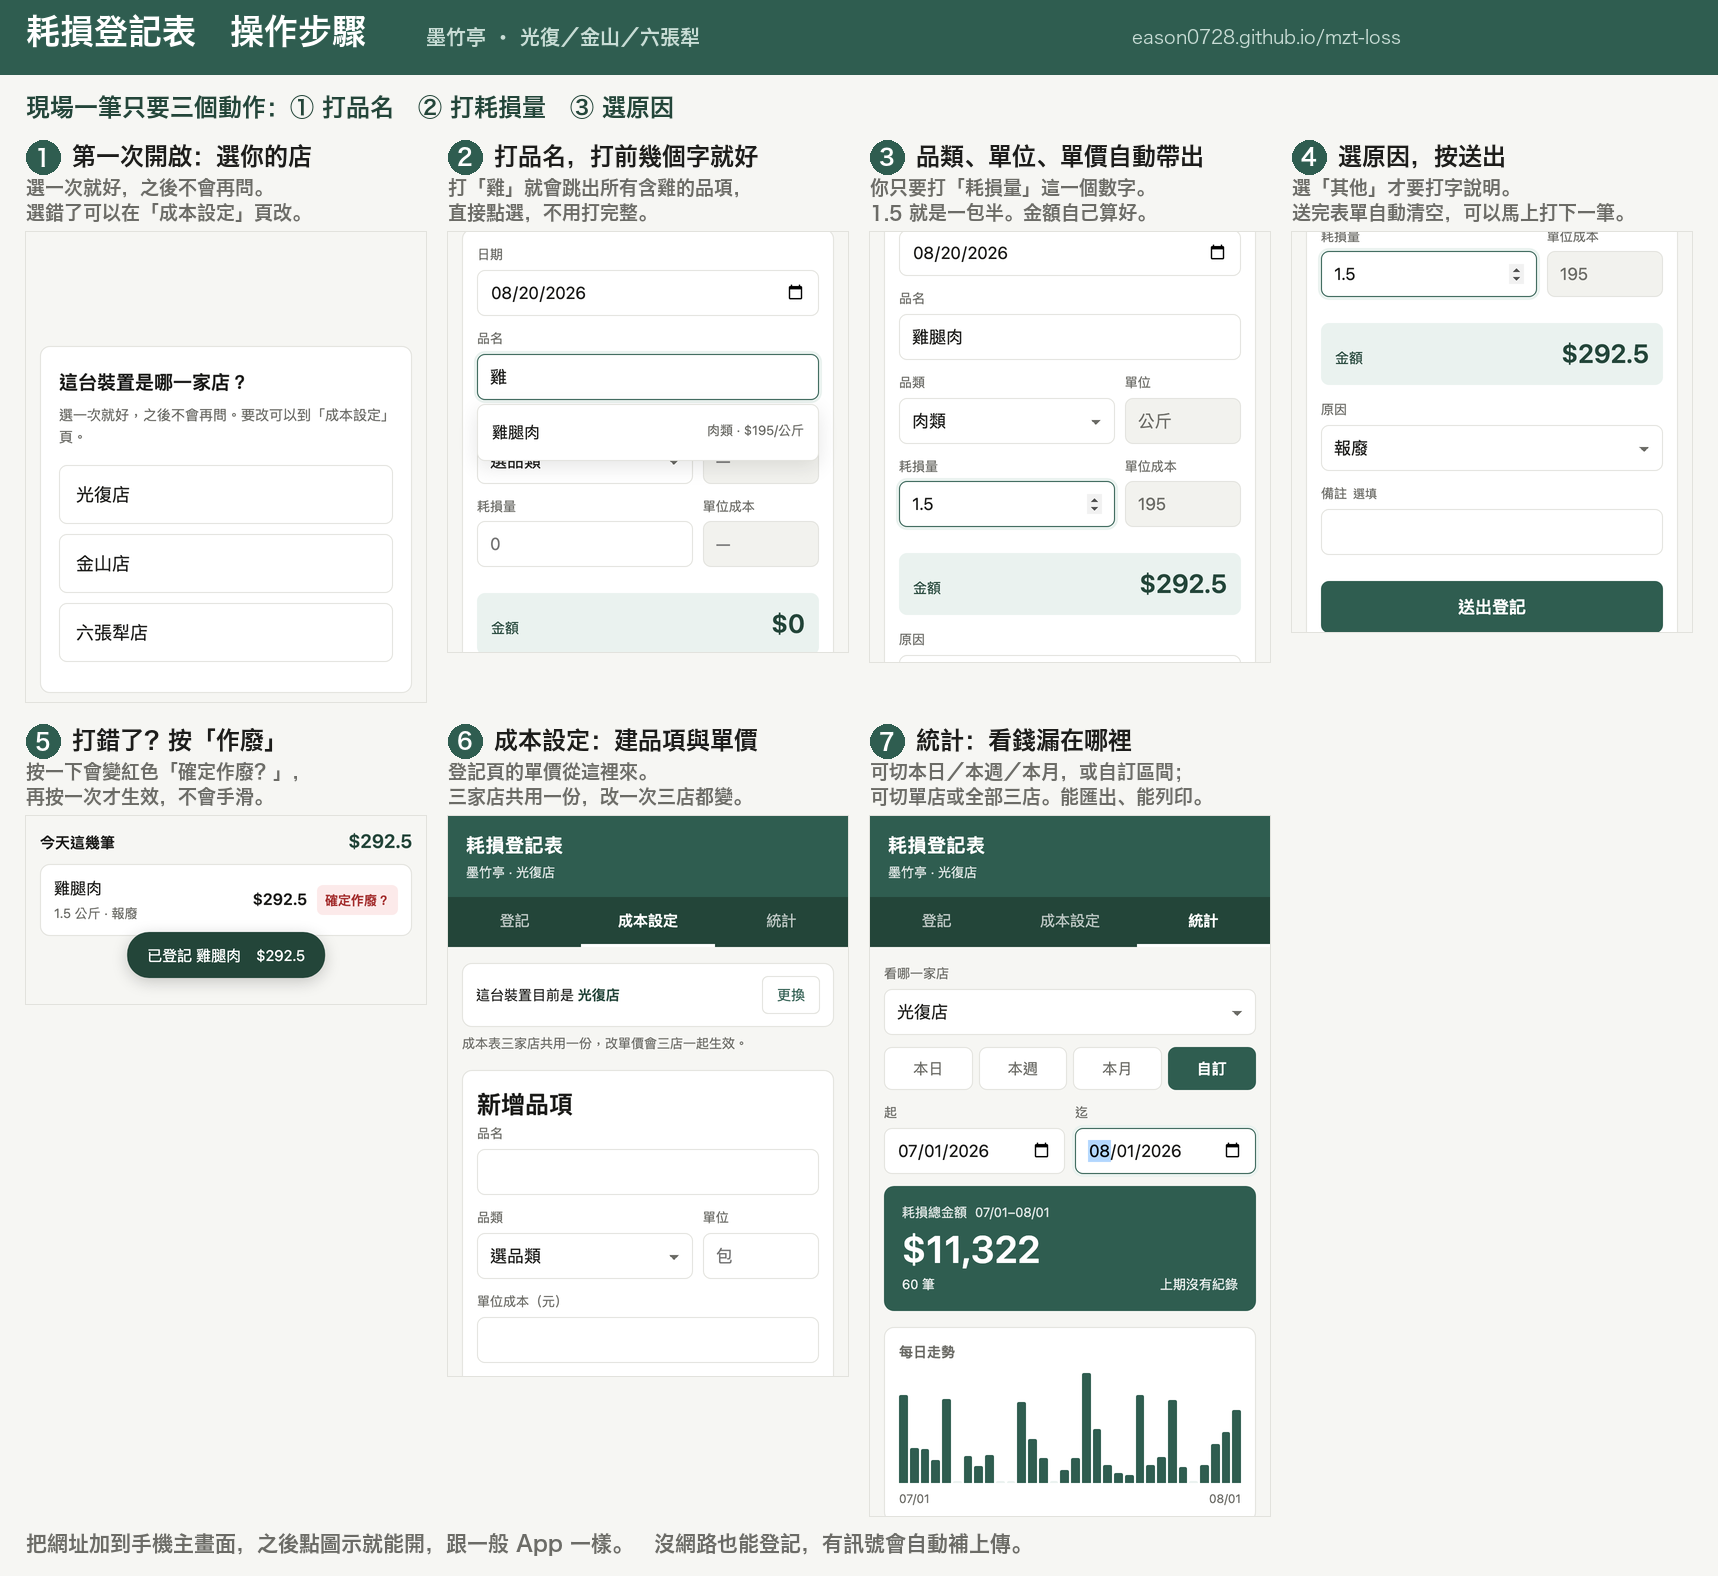
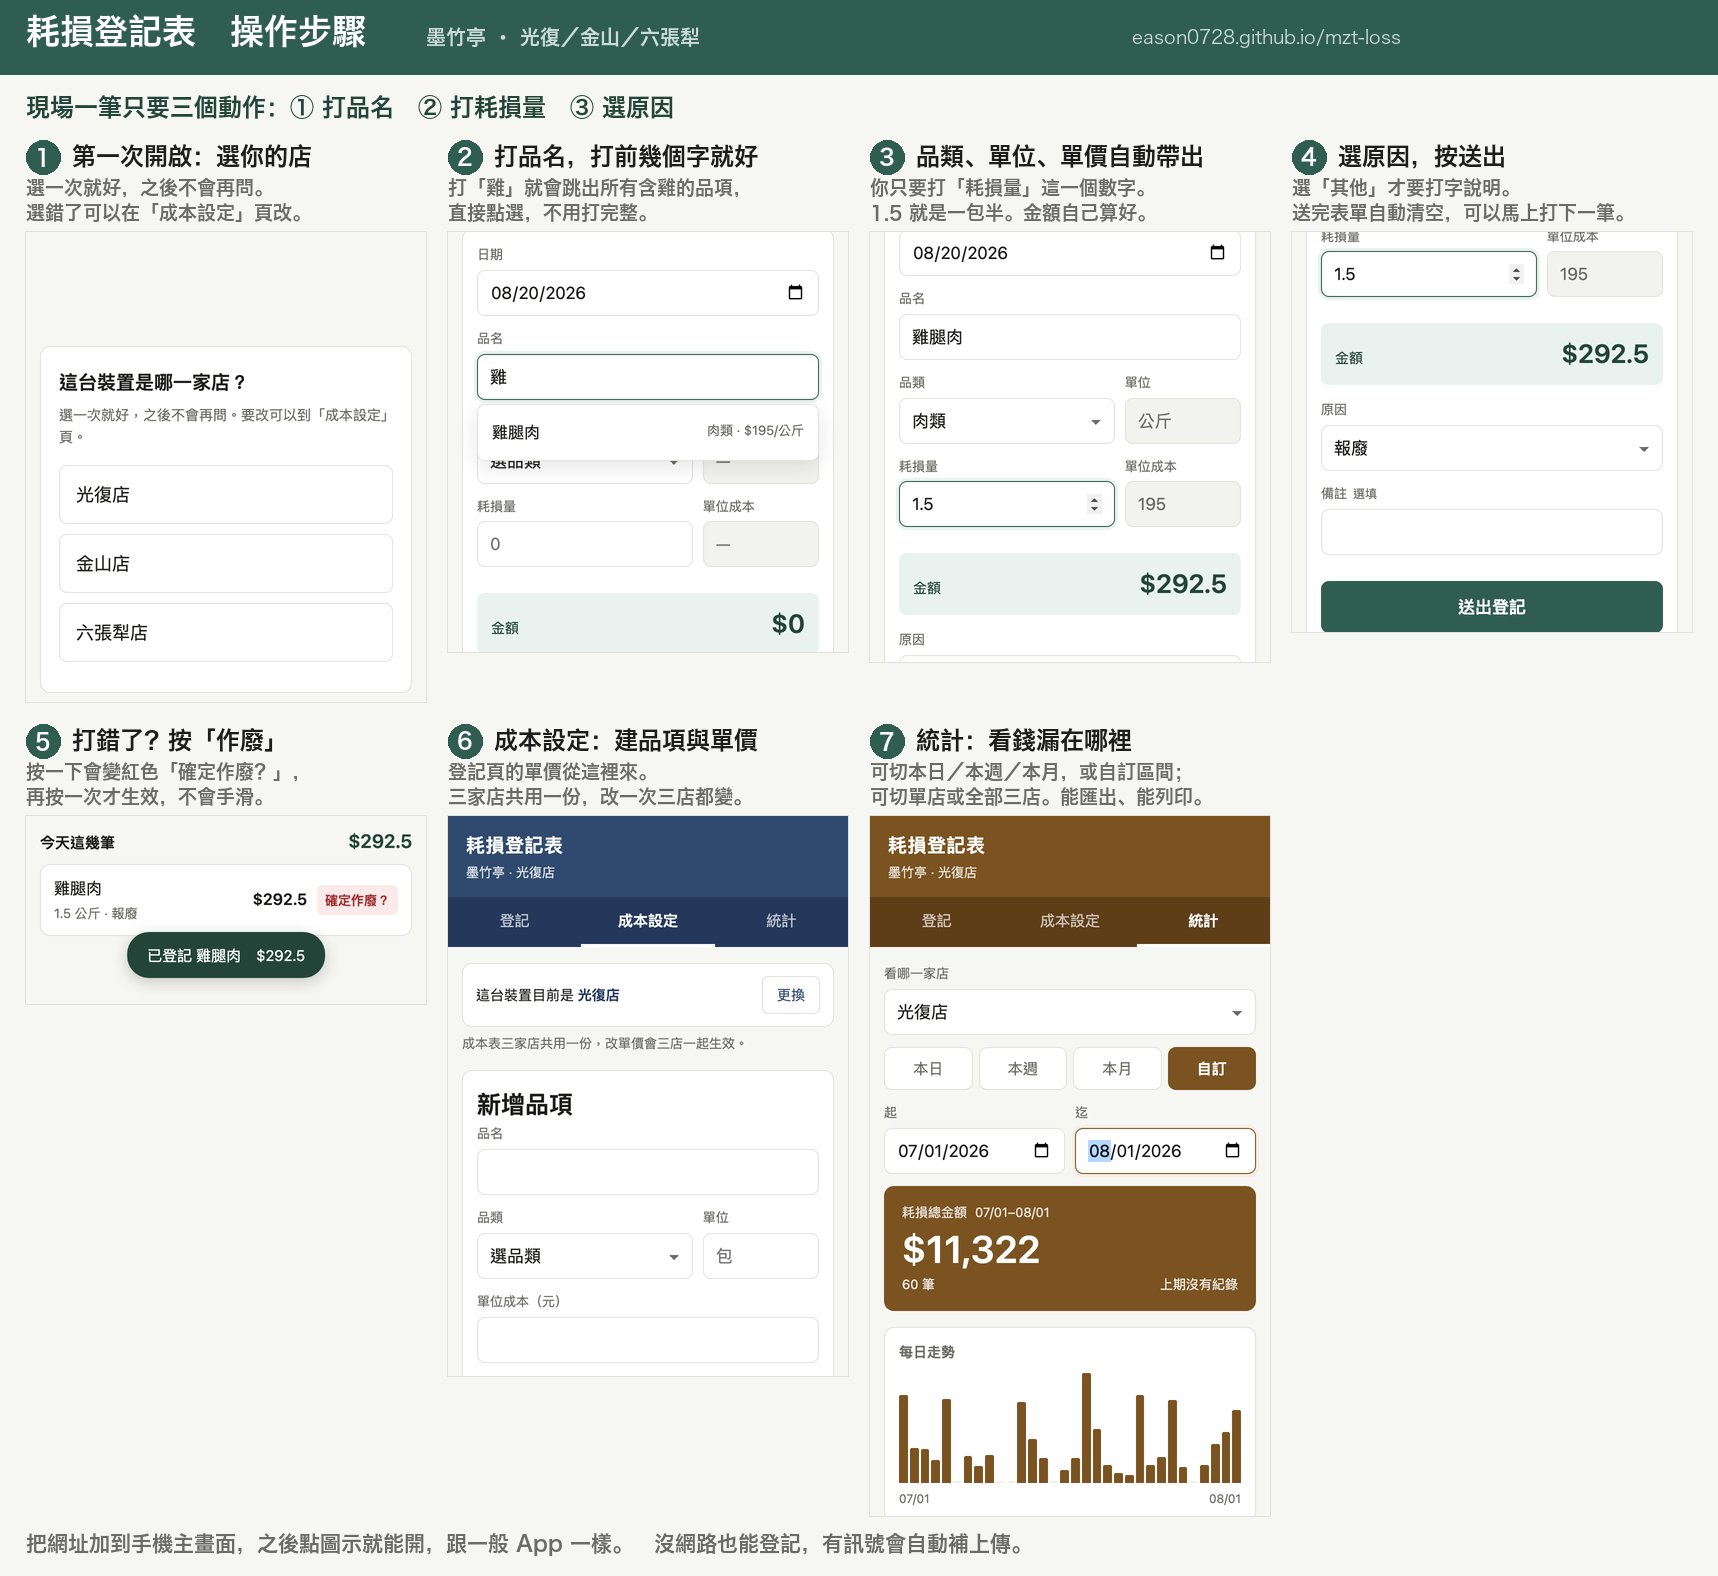
三個分頁用不同顏色區隔
登記＝墨綠、成本設定＝藏藍、統計＝赭褐。
切頁只換三個 CSS 變數，頂部/頁籤/按鈕/金額卡/聚焦框自動跟著換。
教學圖同步重產。

diff --git a/demo.html b/demo.html
@@ -21,6 +21,11 @@
   --danger-soft:#fceaea;
   --radius:10px;
 }
+/* 三個分頁各一色：切頁時只換這三個變數，頂部／頁籤／按鈕／金額卡／聚焦框全部自動跟著換。
+   刻意選同一個「深、濁、白字讀得清楚」的家族，不要變成彩虹。 */
+body[data-page="cost"]{--green:#2f4a6e;--green-dark:#23385a;--green-soft:#eaeff6}
+body[data-page="stat"]{--green:#7a5320;--green-dark:#5d3e17;--green-soft:#f5eee2}
+
 *{box-sizing:border-box;-webkit-tap-highlight-color:transparent}
 [hidden]{display:none !important}   /* .row 的 display:flex 會蓋掉瀏覽器預設的 [hidden] */
 body{
@@ -768,6 +773,7 @@ if (typeof document !== 'undefined') document.addEventListener('DOMContentLoaded
       Array.prototype.forEach.call(document.querySelectorAll('.page'), function (p) { p.classList.remove('is-on'); });
       btn.classList.add('is-on');
       $('page-' + btn.dataset.tab).classList.add('is-on');
+      document.body.dataset.page = btn.dataset.tab;   // 換色靠這一行
       if (btn.dataset.tab === 'stat') renderStat();
       window.scrollTo(0, 0);
     });
@@ -1156,6 +1162,8 @@ if (typeof document !== 'undefined') document.addEventListener('DOMContentLoaded
   });
 
   $('s-print').addEventListener('click', function () { window.print(); });
+
+  document.body.dataset.page = 'log';   // 開頁預設在登記頁
 
   var saved = store.curStore();
   if (saved && STORES.indexOf(saved) >= 0) applyStore(saved);

diff --git a/index.html b/index.html
@@ -21,6 +21,11 @@
   --danger-soft:#fceaea;
   --radius:10px;
 }
+/* 三個分頁各一色：切頁時只換這三個變數，頂部／頁籤／按鈕／金額卡／聚焦框全部自動跟著換。
+   刻意選同一個「深、濁、白字讀得清楚」的家族，不要變成彩虹。 */
+body[data-page="cost"]{--green:#2f4a6e;--green-dark:#23385a;--green-soft:#eaeff6}
+body[data-page="stat"]{--green:#7a5320;--green-dark:#5d3e17;--green-soft:#f5eee2}
+
 *{box-sizing:border-box;-webkit-tap-highlight-color:transparent}
 [hidden]{display:none !important}   /* .row 的 display:flex 會蓋掉瀏覽器預設的 [hidden] */
 body{
@@ -768,6 +773,7 @@ if (typeof document !== 'undefined') document.addEventListener('DOMContentLoaded
       Array.prototype.forEach.call(document.querySelectorAll('.page'), function (p) { p.classList.remove('is-on'); });
       btn.classList.add('is-on');
       $('page-' + btn.dataset.tab).classList.add('is-on');
+      document.body.dataset.page = btn.dataset.tab;   // 換色靠這一行
       if (btn.dataset.tab === 'stat') renderStat();
       window.scrollTo(0, 0);
     });
@@ -1156,6 +1162,8 @@ if (typeof document !== 'undefined') document.addEventListener('DOMContentLoaded
   });
 
   $('s-print').addEventListener('click', function () { window.print(); });
+
+  document.body.dataset.page = 'log';   // 開頁預設在登記頁
 
   var saved = store.curStore();
   if (saved && STORES.indexOf(saved) >= 0) applyStore(saved);

diff --git a/src/app.js b/src/app.js
@@ -400,6 +400,7 @@ if (typeof document !== 'undefined') document.addEventListener('DOMContentLoaded
       Array.prototype.forEach.call(document.querySelectorAll('.page'), function (p) { p.classList.remove('is-on'); });
       btn.classList.add('is-on');
       $('page-' + btn.dataset.tab).classList.add('is-on');
+      document.body.dataset.page = btn.dataset.tab;   // 換色靠這一行
       if (btn.dataset.tab === 'stat') renderStat();
       window.scrollTo(0, 0);
     });
@@ -788,6 +789,8 @@ if (typeof document !== 'undefined') document.addEventListener('DOMContentLoaded
   });
 
   $('s-print').addEventListener('click', function () { window.print(); });
+
+  document.body.dataset.page = 'log';   // 開頁預設在登記頁
 
   var saved = store.curStore();
   if (saved && STORES.indexOf(saved) >= 0) applyStore(saved);

diff --git a/src/styles.css b/src/styles.css
@@ -11,6 +11,11 @@
   --danger-soft:#fceaea;
   --radius:10px;
 }
+/* 三個分頁各一色：切頁時只換這三個變數，頂部／頁籤／按鈕／金額卡／聚焦框全部自動跟著換。
+   刻意選同一個「深、濁、白字讀得清楚」的家族，不要變成彩虹。 */
+body[data-page="cost"]{--green:#2f4a6e;--green-dark:#23385a;--green-soft:#eaeff6}
+body[data-page="stat"]{--green:#7a5320;--green-dark:#5d3e17;--green-soft:#f5eee2}
+
 *{box-sizing:border-box;-webkit-tap-highlight-color:transparent}
 [hidden]{display:none !important}   /* .row 的 display:flex 會蓋掉瀏覽器預設的 [hidden] */
 body{
